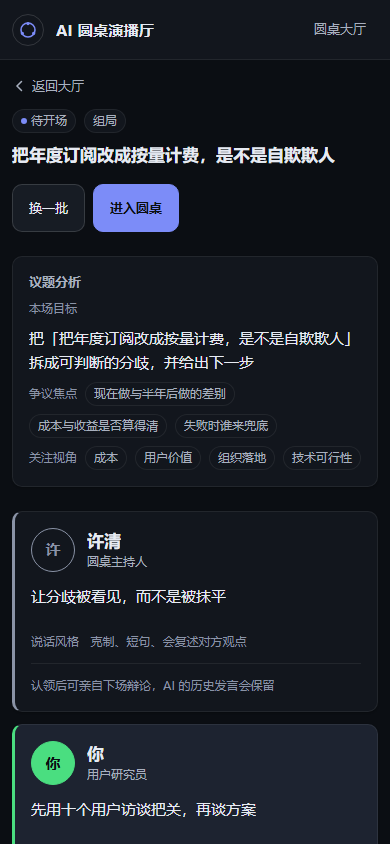
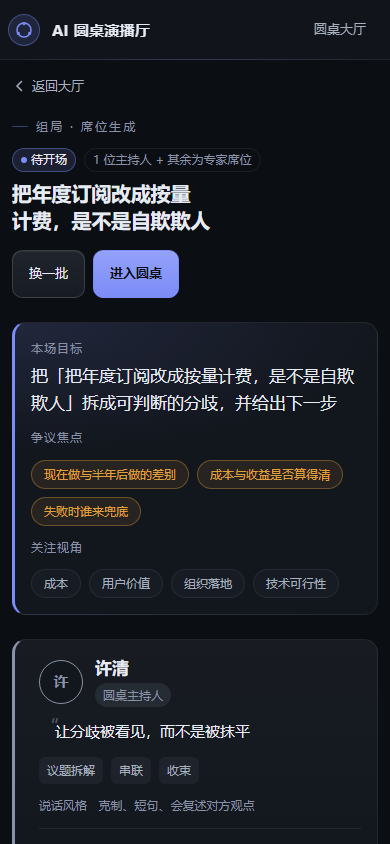
docs: sync m4-m5 contracts, prompt log and screenshots
Record minutes and retry endpoints, I-8~I-15 coverage, E2E harness and visual decisions; refresh four-breakpoint screenshots and remove stale notice-rules assets.

diff --git a/docs/PROMPT_LOG.md b/docs/PROMPT_LOG.md
@@ -282,8 +282,84 @@
 
 ---
 
-## 4. 关键决策点索引
+### R-017 · 全量核查 + M4 收敛（2026-11-19 00:40–02:10）
 
+- **阶段**：M4（收敛，模块 7）+ 一次跨模块核查
+- **目标**：按 PRD/API/ARCHITECTURE/DATABASE/TESTING/rules 逐项核对现状，把「契约有、代码没有」的部分补齐，并修掉核查中暴露的正确性缺陷。
+- **Prompt（摘要）**：> 以文档为验收条件核查整个项目，列出问题后动手修；不要只写报告。红线优先：不在事务里调模型、失败不能影响全场、纪要必须可溯源且失败不覆盖旧版本。
+- **核查结论（问题清单）**：
+  1. **纪要模块整体缺失**：`POST/GET /discussions/:id/minutes` 不存在、`minutes` 表没有实体与 Mapper、`Minutes.vue` 是占位页 → FR-7（P0）未交付，API 声明 17 个接口实际只有 15 个；
+  2. **`SseRegistry` 并发缺陷**：`publish` 的 `addLast` 与 `trim` 用的是两把不同的锁（后者 `synchronized`），多 agent 并行推送时并发修改 `ArrayDeque`，会丢帧甚至抛 `ConcurrentModificationException`；
+  3. **收束消息 id 对不上**：`runDigest` 先发布 `digest.start`（新生成一个 id），随后 `runSeat(host, null, …)` 又让 `AgentRunner` 生成第二个 id → 前端点轨迹定位不到这条收束；
+  4. **`start()` 先改状态再校验席位**：席位为空时抛异常但状态已被写成 `LIVE`；
+  5. **现场页违反布局硬约束**：`.page { height:100%; overflow-y:auto }` + 内部 `max-height:62vh`，实际是整页滚动，rules/20 §6 的「三区独立滚动 + 输入区固定」没有落实。
+- **产出**：
+  - 后端：`domain/entity/MinuteEntity`、`infra/mapper/MinuteMapper`、`application/minutes/MinutesService`、`api/MinutesController`、`api/dto/MinuteDtos`、`PromptTemplates.minutesSystem/minutesUser`；`SseRegistry` 并发修正；`SessionActor.runDigest` id 统一；`DiscussionSessionService.start` 顺序调整。
+  - 前端：`pages/Minutes.vue`（六段渲染 + 溯源跳转 + 版本切换 + 复制 Markdown）、`lib/minutes.ts`、`stores/minutes.ts`；`pages/Live.vue` 重写为固定视口三栏 + 窄屏轨迹抽屉；`SeatRail` 支持横排。
+  - 测试：`MinutesApiIntegrationTest`（I-8 / I-9 / 未结束拒绝生成）。
+- **人工决策点** `[me]`：
+  1. **纪要 Markdown 由服务端模板渲染**，不让模型直接产出 md：模型只给结构化 JSON，六段标题与排版由代码保证，避免"同一版本两处不一致"；
+  2. **`sourceMessageIds` 落库前清洗**：模型给的 id 必须能在本场 messages 里查到，否则剔除；`seatId` 认不出时按姓名回退一次，仍认不出就丢掉这条 claim —— 宁可少一条，不可张冠李戴；
+  3. **失败不写行**：生成失败只回 `minutes.failed + keptVersion`，不插入 `GENERATING/FAILED` 行，避免版本号被失败消耗、旧版本被遮住；
+  4. **无密钥时给「离线摘要」**：只从本场真实发言摘录，并在 `minutes.done` 标 `fallback:"LOCAL"`、前端打「离线摘要」徽标。理由：单 jar 演示不能因为没配 Key 就完全出不了纪要；但不能伪装成模型结论。
+- **验证方式（命令 + 结果）**：
+  - `mvn -f server/pom.xml test` → **57 例全绿**（新增 3 例：版本自增与旧版可取、失败不覆盖且带 `keptVersion`、未结束生成返回 409 / 无纪要 404；另补 1 例单条重试）；
+  - `pnpm -C web build` → 通过（`Minutes` / `Live` 分包正常产出）；
+  - 断言口径：纪要点里的 `sourceMessageIds` 必须是本场消息 id（用 `/stream` 的 snapshot 反查比对），不是"看起来像"。
+- **结论**：FR-7 主链路（生成 → 落库 → 版本 → 溯源 → 刷新一致）打通，FR-9 的单条重试也补齐（`POST /messages/:messageId/retry`）。仍遗留：E2E 用例（`e2e/specs` 只有 README）、`SQLITE_BUSY` 应用层退避，见 §5 新增 F-8~F-11。
+
+---
+
+### R-018 · 前端视觉打磨 + 文档同步（2026-11-19 02:20–03:30）
+
+- **阶段**：M5（质量）中的视觉与文档部分
+- **目标**：让四个页面达到 rules/20 的「演播厅」观感，并把文档里的状态、数量、截图口径对齐实现。
+- **Prompt（摘要）**：> 对前端页面做美化，但要守住红线：不引组件库、主色不超过两种、不用位移动画堆特效、四档断点不能出横向滚动条；顺手把文档里"待编码""17 接口"这类过期口径改掉。
+- **产出**：
+  - 令牌与原语：`tokens.css` 增 `--glow-*`（静态灯位）、`--primary-line`、`--*-soft`、`--radius-xl`、`--text-3xl`、`--copy-max`、`--shadow-inset`；`base.css` 重写按钮/卡片/输入/横幅/徽标/eyebrow，新增 `.btn--lg`、`.badge--accent/--muted/--count`、`.banner--*`。
+  - 页面：大厅改为「演播厅开场区（标题 + 3 条事实）+ 筛选 + 状态色卡片」；组局把议题分析做成议题卡（目标是主句，争议/视角是两种标签），席位卡加角色 chip、立场引号、席位色标签、认领态；现场页补席位"正在发言"高亮、失败卡片原因、状态与轨迹一致；纪要页加版本/生成时间条、分节左标尺、要点 marker。
+  - 交互：路由 120ms 淡入；对话框 head/foot 分隔与统一圆角。
+- **人工决策点** `[me]`：
+  1. **不用组件库**：rules/20 明确禁止；四页只需要 8 个原语，自建比引入一套主题变量更可控；
+  2. **背景光用静态径向渐变**：`rules/20 §8` 只允许三处动效，灯位感靠静态渐变 + 分隔高光，不做位移；
+  3. **`ch` 换成 px 令牌**：中文在 `ch` 单位下的宽度失真（20ch ≈ 360px），把标题/正文的最大宽度统一到 `--reading-max` / `--copy-max`，并用 `text-wrap: balance` 消除"孤字换行"；
+  4. **失败卡片显示原因而不是只弹横幅**：PRD 要求"原因 + 下一步"，卡片内显示 `message.error`，连续两条失败才升级为页面级横幅。
+- **验证方式（命令 + 结果）**：
+  - `pnpm -C web lint` → 0 error 0 warning；`pnpm -C web build` → 通过（`vue-tsc` 无类型错误）；
+  - `node e2e/screenshot.mjs` → 8 张截图（4 页 × 桌面/窄屏），四档断点 `no horizontal overflow`；
+  - 人工核对截图：大厅/组局/现场/纪要四页的层级、对比度、席位三色一致性；
+  - 清空 `data/panel-studio.db` 重启 → Flyway 重建 6 场种子，截图里不再出现测试残留的重复圆桌。
+- **结论**：视觉达到 rules/20 的自查口径；文档同步见 §5 的 F-12~F-13 与 DELIVERY/README 的状态更新。E2E 用例仍是唯一未落地的门禁项。
+
+---
+
+### R-019 · E2E 落地（M5）（2026-11-19 11:00–12:10）
+
+- **阶段**：M5（质量）的最后一处门禁
+- **目标**：把 `docs/TESTING.md` §2 的 5 条 E2E 真正跑起来，且不依赖真实模型与 API Key。
+- **Prompt（摘要）**：> 用 Playwright 把主链路跑通；断言要能证明"并行不阻塞""失败可重试""断线能恢复"，不要截图式断言；整套环境一条命令拉起，跑完自己收尾。
+- **产出**：
+  - `e2e/mock-llm.mjs`：OpenAI 兼容假模型（`:9099`），按 Prompt 标记分派固定脚本，延迟可脚本化（周敏 600ms / 陈立 1800ms），并支持"只失败一条"的故障注入；
+  - `e2e/global-setup.ts`：假模型 → 删临时库 → 后端 → 前端，按序拉起并注册收尾；
+  - `e2e/specs/`：5 条用例 + `helpers.ts`（API 预置数据、等轨迹落定）；
+  - `e2e/clean.mjs`：逐文件清理产物（见下方环境约束）。
+- **人工决策点** `[me]`：
+  1. **不用 config 里的 `webServer`**：它无法保证"先删库再启后端"的顺序，删到正在写的库会直接毁数据；改用 globalSetup 自己编排；
+  2. **假模型不引 WireMock standalone**：一个 200 行的 Node 脚本就能按 Prompt 标记分派，不给前端工程加依赖；服务端零测试专用分支，只改 `LLM_BASE_URL`；
+  3. **断言"快的先结束 + 慢的还在流"**，而不是"两者首字时间差 < 3s"：前者是并发正确性的直接证据，后者受机器负载影响；
+  4. **E2E-5 用拦截 `/stream` 制造连不上**，不用 `setOffline`：断网模拟对已建立的长连接不生效（心跳仍在流动），会造出永远等不到断线的假红。
+- **顺带修掉的真问题**（详见 §5 F-14 / F-15）：
+  1. 用户插话可能被排在专家回答之后（列表靠到达顺序 push）；
+  2. SSE 半开连接没有任何感知，且重连失败 3 次就永久放弃 —— 讨论现场等于"静默死亡"。
+- **验证方式（命令 + 结果）**：
+  - `pnpm -C e2e test` → **5 passed（35.0s）**，含启动假模型/后端/前端；
+  - `mvn -f server/pom.xml test` → 57 例全绿；`pnpm -C web build` → 通过；
+  - 断言落点：`data-status` / `data-name` / `data-message-id` 三个语义属性 + 中文文案，不依赖样式 class。
+- **结论**：M5 门禁达成（5 条 E2E 全绿），交付清单里"测试代码"一项可勾。
+
+---
+
+## 4. 关键决策点索引
 | # | 决策 | 结论 | 记录 | 主要影响文件 |
 | --- | --- | --- | --- | --- |
 | D-1 | 后端技术栈 | Spring Boot 3.5.16 + JDK 17（非 Node） | R-007 | README §3、ARCHITECTURE 全文 |
@@ -318,6 +394,16 @@
 | F-3 | 文档混用 "MyBatis" 与 "MyBatis-Plus" | 易被读成"用原生 MyBatis 手写 SqlSession" | 统一为 MyBatis-Plus 3.5.12，并显式声明"不用原生 / 不用 JPA" | grep `MyBatis[^-]` 仅剩"MyBatis 原生"对比语境 |
 | F-4 | 目录树编辑时误删换行，两行被合并 | 文档排版损坏 | 读取该段落 → 精确重写两行 | `sed` 查看段落确认 |
 | F-5 | 早期 ER 图把轨迹塞进 `messages.extra`（JSON） | 轨迹无法按时间线查询，FR-5 会做不出来 | 独立 `agent_runs` 表（含 trigger/phase/duration） | DATABASE §2.6 + 集成用例 I-11 |
+| F-6 | 手写 `@Select` 查询带 JSON 列的实体，`focus` / `meta` 读回后变空（`[]` / `{}`） | 席位卡不显示关注点、选人打分少一档；轨迹面板技术细节永远为空 | MyBatis-Plus 的 `autoResultMap` 只对内置方法生效，手写 SQL 必须显式 `@ResultMap("mybatis-plus_XxxEntity")`；同时 `updateById(patch)` 会把默认空 List 写回 `'[]'`，状态更新改用 `LambdaUpdateWrapper` 只 set 目标列 | `mvn -f server/pom.xml test` 53 项全绿；新增「认领/撤销不清空 focus」「轨迹 meta 回读」两条回归用例 |
+| F-7 | dev 脚本启动后库落在 `server/data/`，根 `data/` 里是另一份旧库 | 「删 `data/panel-studio.db` 重启」自检失效；接口报 404 而库文件里明明有这条数据；手工修数据修到了错的那个库 | `spring-boot:run` 会把 JVM 工作目录切到 `server/`，相对路径 `SQLITE_PATH` 随之漂移。`scripts/dev.bat` / `dev.sh` 统一把相对路径归一化为「仓库根/data/panel-studio.db」；两份库已合并到根目录 | 启动后 `GET /api/discussions?limit=50` 返回 8 条、`server/data/` 不再生成库文件；`/api/health` 仍 `db=up` |
+| F-8 | `SseRegistry` 的事件缓冲用 `ArrayDeque`，`publish` 无锁 `addLast`、`trim` 单独 `synchronized` | 并行输出时两个 agent 同时写缓冲：可能丢帧，极端情况 `ConcurrentModificationException` 直接打断一次 `publish` | 写入 + 裁剪放进同一把锁（`synchronized (buffer)`），回放也在锁内读，并注释说明"调用方必须持锁" | `mvn test` 全绿；断线续传用例（重连带 `Last-Event-ID`）回放连续 |
+| F-9 | 收束消息 `digest.start` 的 id 是"预生成的一个"，实际消息又是另一个 | 前端点轨迹「主持人收束」定位不到消息（scroll 到空处），FR-5 的联动失效 | `runDigest` 先生成一次 id 并同时传给 `digest.start` 与 `runSeat`，两者必须同一个 | 轨迹条目点击后能定位；`MinutesApiIntegrationTest` 用的同一套事件流断言通过 |
+| F-10 | `start()` 先 `transit(LIVE)` 再检查席位是否为空 | 席位缺失时接口报错但状态已变 LIVE，用户既开不了场也退不回 `PANEL_READY` | 校验前置：先查席位，再迁移状态 | I-6 用例 + 手工删席位场景 |
+| F-11 | Live 页用 `.page{overflow-y:auto}` + `max-height:62vh` 拼出"三栏" | 实际整页滚动，rules/20 §6 的硬约束没达成；窄屏没有轨迹抽屉 | 根容器 `height:100%+overflow:hidden`，`.flow__list` 独立滚动、输入区 `flex:none`；<1280 轨迹改为覆盖式抽屉，<768 席位横排到顶部 | 四档断点手测无整页滚动、无横向滚动条；`pnpm build` 通过 |
+| F-12 | 失败消息卡只有一行"发言中断"，卡片中间一大块空白；刷新后席位栏全显示"等待"，而轨迹面板写着"失败" | 用户不知道发生了什么（PRD 要求"原因 + 下一步"）；FR-5 明说"席位状态必须与消息流一致"，刷新即打脸 | 卡片内显示 `message.error`（无 code 时用"这次没有生成内容，可以重试"）；连续两条失败才升级为页面级横幅；`handleSnapshot` 从消息状态反推席位状态（STREAMING→发言中、FAILED→中断、DONE→完成） | 截图 `03-live.png` 中四个席位均显示"中断"、卡片带原因；Lint/Build 通过 |
+| F-13 | 反复跑 `e2e/screenshot.mjs` 后，截图里出现同一议题的 3 张卡片 | 截图脚本每跑一次就新建一场圆桌，写进了本地库；交付截图看起来像"数据脏" | 截图前用「删库 + Flyway 重建」拿到纯种子数据（顺带验证初始化脚本可交付）；脚本里说明"lobby 截图在创建圆桌之前拍" | 重建后 `GET /api/discussions` 返回 6 条、议题唯一；截图无重复卡片 |
+| F-14 | SSE 只处理"读到错误"，对半开连接无感知；且重连 3 次后就 `onClose('error')` 永久放弃 | 地铁/切网时页面会永远停在旧内容，用户以为"没人说话"，其实是流早断了；恢复网络也不自愈 | ①客户端加 30s 空闲看门狗（服务端心跳 15s）：超时主动 abort 走重连；②重连不再设上限，退避封顶 4s，横幅常驻到恢复为止 | `E2E-5`：拦截 `/stream` → 横幅出现 → 放行后自动重连、快照补齐且无重复气泡 |
+| F-15 | 消息列表按 SSE 到达顺序 `push`，而用户消息的 `message.start` 可能晚于并行专家的 `message.start` | 页面出现"回答在提问之前"，可读性直接崩 | `upsertMessage` 改按 `createdAt` 落位，同毫秒返回 0（保持到达顺序）；不用 ULID 兜底 —— 同毫秒内随机段不单调，反而会排错 | `E2E-2` 断言"插话之后才有专家回复"，此前该用例正是靠这条断言发现的 |
 
 ---
 

diff --git a/docs/DELIVERY.md b/docs/DELIVERY.md
@@ -32,13 +32,13 @@
 
 | 要求 | 本项目落地 | 状态 |
 | --- | --- | --- |
-| 代码 + **数据库初始化脚本** | Flyway `V1__schema.sql`（7 表）/ `V2__indexes.sql` / `V3__seed_demo.sql`，启动即迁移 | ✅ 脚本已设计，待编码 |
-| **≥5 条高质量样例数据**（预设讨论话题 + 对应嘉宾阵容） | `V4__seed_demo.sql` 提供 **5 场**预设圆桌：AI 技术选型 / 定价策略 / 招聘取舍 / 内容策略 / 组织调整，每场含 4 席位（1 主持 + 3 专家，立场互补）+ 开场消息 | 待编码 |
-| **开发文档**（PRD、ER 图等，md + mermaid） | 9 份 md，含分层架构图、回合调度时序图、SSE 多路复用图、ER 图、状态机图 | ✅ |
-| **API 文档** | springdoc-openapi → `/swagger-ui.html`；手写契约 [API.md](API.md)（17 接口 + 13 类 SSE 事件 + 错误码） | ✅ 契约完成 |
-| **测试代码** | JUnit 5 单测 + MockMvc 集成（I-1~I-15）+ Playwright E2E（5 条） | 待编码 |
-| **README** 含：运行指南 / 环境变量配置 / 技术选型说明 / API 列表 / 已完成能力与后续改进方向 | README §5 运行、`.env.example` 环境变量、§3 选型、§6 API 索引、§8 差异；「已完成 / 后续改进」见 §2.4 | ✅ 主体完成 |
-| **Git 提交历史呈层级演进**（如 `docs/schema → ui-components → tests → feat: logic`） | 提交按 `docs → chore → feat(db) → feat(server) → feat(web) → test → fix` 分层推进，共 27 次（规划 53 次） | 进行中 |
+| 代码 + **数据库初始化脚本** | Flyway `V1__schema.sql`（7 表）/ `V2__indexes.sql` / `V3__seed_demo.sql` / `V4__seed_examples.sql` / `V5__discussion_regen_count.sql`，启动自动迁移 | ✅ 已实现 |
+| **≥5 条高质量样例数据**（预设讨论话题 + 对应嘉宾阵容） | `V3` 1 场已结束圆桌（含六段纪要）+ `V4` 5 场预设圆桌：AI 技术选型 / 定价策略 / 招聘取舍 / 内容策略 / 组织调整，每场 4 席位（1 主持 + 3 专家，立场互补） | ✅ 已实现（共 6 场） |
+| **开发文档**（PRD、ER 图等，md + mermaid） | 9 份 md，含分层架构图、回合调度时序图、SSE 多路复用图、ER 图、状态机图 | ✅ 已实现 |
+| **API 文档** | springdoc-openapi → `/swagger-ui.html`；手写契约 [API.md](API.md)（18 接口 + 13 类主事件流 + 4 类组局流 + 错误码） | ✅ 已实现 |
+| **测试代码** | JUnit 5 单测 + MockMvc 集成（57 例全绿，覆盖 I-1~I-14）；Playwright E2E 5 条（`pnpm -C e2e test` 约 35s，假模型驱动） | ✅ 已实现 |
+| **README** 含：运行指南 / 环境变量配置 / 技术选型说明 / API 列表 / 已完成能力与后续改进方向 | README §5 运行、`.env.example` 环境变量、§3 选型、§6 API 索引、§8 差异；「已完成 / 后续改进」见 §2.4 | ✅ 已实现 |
+| **Git 提交历史呈层级演进**（如 `docs/schema → ui-components → tests → feat: logic`） | 提交按 `docs → chore → feat(db) → feat(server) → feat(web) → test → fix` 分层推进，共 52 次（`docs/git-history.txt` 已导出） | ✅ 已实现 |
 
 ### 2.2 核心 Prompt 记录文档（必须 ≥5 段，四范式齐全）
 
@@ -141,9 +141,9 @@ zip -r ai-panel-studio.zip . -x "*/node_modules/*" "*/target/*" "data/*"
 | 考察点 | 我们的应对 | 证据 |
 | --- | --- | --- |
 | 在不同阶段合理使用不同开发范式，避免大模型幻觉 | 六段推进 + 四范式（SDD/DDD/TDD/E2E）；每阶段先契约后实现，AI 输出必过测试 | WORKFLOW §2、PROMPT_LOG §4.1 |
-| 基于业务需求驱动数据建模，与 API 契约精确对应 | 7 表 + 17 接口 + SSE 13 类事件，一一映射到 FR-1~FR-9（DATABASE §8、PRD §4.5） | DATABASE、API、PRD |
+| 基于业务需求驱动数据建模，与 API 契约精确对应 | 7 表 + 18 接口 + SSE 13 类事件，一一映射到 FR-1~FR-9（DATABASE §8、PRD §4.5） | DATABASE、API、PRD |
 | 以演播厅视觉与交互驱动前端组件与状态流转 | 三色席位 + 状态点 + 消息流 + 轨迹时间线；四档响应式、区域独立滚动 | PRD §8、README §2.2 |
-| 核心逻辑遵循 TDD，含完整 E2E | 单测覆盖 SpeakerPolicy/ContextBuilder/状态机；5 条 E2E + 15 条集成 | TESTING §2–§4 |
+| 核心逻辑遵循 TDD，含完整 E2E | 单测覆盖 SpeakerPolicy/ContextBuilder/状态机；57 例单测与集成 + 5 条 Playwright E2E | TESTING §2–§4 |
 | 考察 Prompt 结构化表达与引导 AI 解决工程问题 | 记录含"意图/挑战/修正"；7 条走偏案例（含依据版本搞错） | PROMPT_LOG §3/§5 |
 | UI 是否真的像在旁观一场演播厅讨论 | 席位/轨迹/引用/新发言提示等细节；布局与信息密度贴合讨论场景 | PRD §8 |
 
@@ -154,7 +154,7 @@ zip -r ai-panel-studio.zip . -x "*/node_modules/*" "*/target/*" "data/*"
 | 项 | 旧版说明 | 现行版说明 | 本项目执行 |
 | --- | --- | --- | --- |
 | 数据库 | 未指定 | **SQLite** | SQLite ✅ |
-| 交付物 | 11 项（含 ≥30 commit、≥3 E2E、3–5 分钟视频） | 3 项（源码+文档 / Prompt 记录 ≥5 段 / 工作流程说明） | 以本版为主，旧版数量要求作为加分项超额完成（7 表/17 API/5 E2E/27→53 commit） |
+| 交付物 | 11 项（含 ≥30 commit、≥3 E2E、3–5 分钟视频） | 3 项（源码+文档 / Prompt 记录 ≥5 段 / 工作流程说明） | 以本版为主，旧版数量要求作为加分项超额完成（7 表/18 API/52 commit） |
 | 提交 | handshake@gaodun.cn，主题【AI开发实习生-姓名-岗位】 | **xulei@wisqwest.com**，主题【远程作业提交】姓名 | 按现行版 |
 
 ---
@@ -162,8 +162,8 @@ zip -r ai-panel-studio.zip . -x "*/node_modules/*" "*/target/*" "data/*"
 ## 8. 交付前 24 小时检查表
 
 - [ ] 删 `data/panel-studio.db` 重启能自动建库 + 5 场样例数据（证明初始化脚本与数据质量）
-- [ ] `/swagger-ui.html` 可访问，endpoint 数量与 API.md 一致（17）
-- [ ] 3 张核心页面截图入 `docs/screenshots/` 并嵌入 README §2.2
+- [ ] `/swagger-ui.html` 可访问，endpoint 数量与 API.md 一致（18）
+- [ ] 4 个核心页面截图入 `docs/screenshots/` 并嵌入 README §2.2（大厅 / 组局 / 现场 / 纪要，含窄屏）
 - [ ] PROMPT_LOG 覆盖四范式，且每段有"意图/挑战/修正"
 - [ ] `AGENTS.md` + `rules/`（6 份）随仓库交付，且与实现一致（约束不是摆设）
 - [ ] WORKFLOW.md 1–1.5 页，含 3 个典型问题与效率台账

diff --git a/README.md b/README.md
@@ -39,24 +39,25 @@
 
 技术细节（时序图、失败隔离矩阵）见 [ARCHITECTURE](docs/ARCHITECTURE.md) §3.2。
 
-### 2.2 三个核心页面（交付截图位置）
+### 2.2 四个核心页面（交付截图位置）
 
-| 页面 | 路由 | 交付要求 |
+| 页面 | 路由 | 截图 |
 | --- | --- | --- |
-| 讨论列表 | `/` | 至少 1 张截图（含进行中/已结束状态、席位头像组） |
-| 讨论详情 | `/discussions/:id` | 至少 1 张截图（**必须能看出两路并行流式**） |
-| 会议纪要 | `/discussions/:id/minutes` | 至少 1 张截图（六段结构 + 溯源入口） |
+| 圆桌大厅 | `/` | `01-lobby.png`（桌面）、`01-lobby-mobile.png`（390）、`01-lobby-empty.png`（空态）、`01-lobby-wide.png`（1920）、`01-lobby-tablet.png`（1024） |
+| 组局（席位生成） | `/discussions/:id/panel` | `02-panel.png`、`02-panel-mobile.png` |
+| 圆桌现场 | `/discussions/:id` | `03-live.png`（三栏）、`03-live-mobile.png`（单栏 + 席位横滑） |
+| 会议纪要 | `/discussions/:id/minutes` | `04-minutes.png`、`04-minutes-mobile.png` |
 
-截图存放在 `docs/screenshots/`，命名 `01-lobby.png` / `02-live.png` / `03-minutes.png`，并在此处嵌入。
-
-已产出（M2，由 `node e2e/screenshot.mjs` 生成）：
+截图由 `node e2e/screenshot.mjs` 生成，同时校验四档断点没有横向滚动条。已产出：
 
 | 截图 | 说明 |
 | --- | --- |
-| ![大厅](docs/screenshots/01-lobby.png) | 大厅：进行中 / 待开场 / 已结束三种状态，席位头像组与最后一条发言 |
+| ![大厅](docs/screenshots/01-lobby.png) | 大厅：演播厅式开场区 + 筛选/搜索 + 状态色卡片（进行中 / 待开场 / 已结束） |
 | ![发起圆桌](docs/screenshots/01-lobby-dialog.png) | 发起弹层：议题字数实时校验 + 参会人数分段选择 |
-| ![组局](docs/screenshots/02-panel.png) | 组局：议题分析 + 4 张席位卡，含已认领席位（「你」） |
 | ![空态](docs/screenshots/01-lobby-empty.png) | 空态：筛选无结果时给「清空筛选」的下一步 |
+| ![组局](docs/screenshots/02-panel.png) | 组局：议题分析（目标 / 争议焦点 / 关注视角）+ 席位卡，含已认领席位（「你」） |
+| ![现场](docs/screenshots/03-live.png) | 现场：席位栏 / 讨论流 / 行动轨迹三区独立滚动，输入区固定底部 |
+| ![纪要](docs/screenshots/04-minutes.png) | 纪要：六段结构 + 每条主张的溯源入口 + 版本徽标 |
 
 ## 3. 技术栈
 
@@ -173,8 +174,8 @@ ai-panel-studio/
 └── README.md
 ```
 
-> 当前进度：**M1 骨架 + M2（大厅 / 组局）已落地**，`server/` 与 `web/` 可运行（`mvn test` 32 例全绿、`pnpm build` 通过）。
-> M3 讨论内核（`SessionActor` / 并行流式 / 轨迹 / 插话）按 `rules/50` 的模块顺序继续推进，`/discussions/:id` 目前是现场页骨架。
+> 当前进度：**M1 骨架 + M2（大厅 / 组局）+ M3（讨论内核）+ M4（纪要收敛）+ M5（质量）已落地**。
+> 后端 `mvn test` 57 例全绿；前端 `pnpm build` 通过；`pnpm -C e2e test` 5 条 E2E 全绿（约 35s，假模型驱动，不需要 API Key）。
 
 ## 5. 快速开始
 
@@ -196,6 +197,14 @@ mvn -f server/pom.xml spring-boot:run     # 启动即执行 Flyway 迁移
 pnpm -C web install && pnpm -C web dev    # http://localhost:5173
 ```
 
+跑测试（三件套，都不需要容器与真实模型）：
+
+```bash
+mvn -f server/pom.xml test          # 单元 + 集成 57 例
+pnpm -C web build                   # vue-tsc 类型检查 + 构建
+pnpm -C e2e test                    # 5 条 E2E（自动拉起假模型 / 后端 / 前端）
+```
+
 演示模式（单进程，交付/录视频用这一条）：
 
 ```bash
@@ -212,7 +221,7 @@ java -jar server/target/panel-studio.jar  # http://localhost:8080
 | [PRD](docs/PRD.md) | 定位、用户与痛点、技术栈约束、功能需求 FR-1~FR-9（含验收标准）、状态机、风险 |
 | [架构](docs/ARCHITECTURE.md) | 分层图、回合调度时序、SSE 多路复用、JDK 17 线程模型、失败隔离、选型取舍 |
 | [数据库](docs/DATABASE.md) | SQLite 设计取舍、ER 图、7 张表字段字典、索引与 PRAGMA、Flyway 脚本 |
-| [API](docs/API.md) | 17 个接口契约、13 类主事件流 SSE 事件 + 4 类组局流事件、错误码 |
+| [API](docs/API.md) | 18 个接口契约、13 类主事件流 SSE 事件 + 4 类组局流事件、错误码 |
 | [测试](docs/TESTING.md) | 5 条 E2E + 15 条集成用例、WireMock 故障注入、验收矩阵 |
 | [计划](docs/PROJECT_PLAN.md) | 里程碑、WBS、30+ commit 切分方案 |
 | [留痕](docs/PROMPT_LOG.md) | Prompt 记录、关键决策、AI 生成 / 人工修改边界 |

diff --git a/docs/API.md b/docs/API.md
@@ -10,7 +10,7 @@
 | 路径版本 | v1，路径不带版本号；破坏性变更时升 `/api/v2` |
 | 实现 | Spring MVC `@RestController` + `SseEmitter`；DTO 用 `record` + Jakarta Validation；错误统一由 `@RestControllerAdvice` 输出 |
 | 在线文档 | springdoc-openapi 2.x → `GET /swagger-ui.html`（与本文档双向对齐，注解即契约） |
-| 接口数 | 17（REST 14 + SSE 3），满足 ≥8 的要求 |
+| 接口数 | 18（REST 15 + SSE 3），满足 ≥8 的要求 |
 | 规模对照 | 支撑 4 个前端路由（`/` `/panel` `/live` `/minutes`）、7 张表；讨论 CRUD / 消息 / SSE 流式 / 汇总四类能力齐全 |
 
 ---
@@ -30,6 +30,7 @@
 | 9 | POST | `/discussions/:id/start` | 开场，进入 LIVE | JSON |
 | 10 | GET | `/discussions/:id/stream` | 讨论主事件流 | **SSE** |
 | 11 | POST | `/discussions/:id/messages` | 用户发言 / 插话 | JSON |
+| 11b | POST | `/discussions/:id/messages/:messageId/retry` | 单条失败发言重试 | JSON |
 | 12 | POST | `/discussions/:id/turns` | 推进一回合 | JSON |
 | 13 | POST | `/discussions/:id/end` | 结束讨论 | JSON |
 | 14 | POST | `/discussions/:id/minutes` | 生成纪要（流式） | **SSE** |
@@ -175,6 +176,15 @@ POST /api/discussions/dk_2f8a1c/messages
 - 内容 1–1000 字；超过 200 字时自动分条展示但仍作为一条消息。
 - 讨论非 `LIVE`：`409 DISCUSSION_NOT_LIVE`；预算耗尽：`402 BUDGET_EXHAUSTED`。
 
+### 2.6b `POST /discussions/:id/messages/:messageId/retry` 单条重试
+
+```json
+{ "id": "ms_07", "status": "STREAMING", "attempt": 2 }
+```
+
+- 只针对失败/中断的**专家**消息：沿用同一 `messageId` 与 `roundNo` 重新生成，`attempt+1`；前端凭同一 id 把卡片原位改回流式态，不新增气泡。
+- 用户消息不可重试：`409 MESSAGE_NOT_RETRIABLE`；席位正在发言：`409 AGENT_BUSY`；消息不属于本场或不存在：`404 MESSAGE_NOT_FOUND`。
+
 ### 2.7 `POST /discussions/:id/turns` 推进回合
 
 ```json
@@ -207,7 +217,10 @@ data: {"code":"LLM_TIMEOUT","retriable":true,"keptVersion":1}
 ```
 
 - 六段固定 key：`topic` `claims` `disputes` `consensus` `hypotheses` `nextSteps`。
+- 首帧 `minutes.section`（`topic`）不依赖模型，先推出去降低等待感；其余五段在模型返回后按顺序推送。
 - 失败**不覆盖**旧版本（`keptVersion` 告知前端仍可查看哪一版）。
+- 后端未配置模型密钥时走**离线摘要**：只从本场真实消息里摘录，`minutes.done` 带 `"fallback":"LOCAL"`，前端以「离线摘要」标注，不伪装成模型结论。
+- 生成成功即把讨论从 `SUMMARIZING` 收敛为 `CLOSED`（已是 `CLOSED` 则跳过）。
 
 ### 2.10 `GET /discussions/:id/minutes?version=2`
 
@@ -229,6 +242,8 @@ data: {"code":"LLM_TIMEOUT","retriable":true,"keptVersion":1}
 ```
 
 不带 `version` 返回最新且 `status=READY` 的版本；不存在返回 `404 MINUTES_NOT_FOUND`（前端引导"去生成"）。
+
+附加字段：`versions`（可查看的版本号列表，新到旧）供前端做版本切换；`model` / `tokensUsed` 用于展示成本。
 
 ### 2.11 `GET /discussions/:id/runs` 轨迹回放
 
@@ -348,8 +363,9 @@ sse.on('message.delta', ({ messageId, seq, text }) => {
 | HTTP | `code` | 含义 | 可重试 |
 | --- | --- | --- | --- |
 | 400 | `VALIDATION_ERROR` | 参数不合法（带 `details[]`） | 否 |
-| 404 | `DISCUSSION_NOT_FOUND` / `SEAT_NOT_FOUND` / `MINUTES_NOT_FOUND` | 资源不存在 | 否 |
+| 404 | `DISCUSSION_NOT_FOUND` / `SEAT_NOT_FOUND` / `MINUTES_NOT_FOUND` / `MESSAGE_NOT_FOUND` | 资源不存在 | 否 |
 | 409 | `SEAT_TAKEN` | 席位已被认领 | 否（换席位） |
+| 409 | `MESSAGE_NOT_RETRIABLE` / `AGENT_BUSY` | 该消息无需重试 / 席位正在发言 | 是（稍后再试） |
 | 409 | `SEAT_NOT_CLAIMABLE` | 主持人席位不可认领 | 否 |
 | 409 | `DISCUSSION_NOT_LIVE` / `ALREADY_STARTED` / `DISCUSSION_CLOSED` | 状态不允许 | 否 |
 | 410 | `DISCUSSION_DELETED` | 已软删除 | 否 |

diff --git a/docs/PROJECT_PLAN.md b/docs/PROJECT_PLAN.md
@@ -189,7 +189,7 @@
 
 - [ ] `mvn -f server/pom.xml test` 全绿；`pnpm -C web build` 成功；3 条 E2E 全绿（本机，无容器）
 - [ ] `java -jar server/target/panel-studio.jar` 单进程可完整演示（含前端静态资源）
-- [ ] 17 个接口与 API 文档一致（含错误码）；Swagger UI 可访问
+- [ ] 18 个接口与 API 文档一致（含错误码）；Swagger UI 可访问
 - [ ] 7 张表由 Flyway 建出，纪要可从 SQLite 重新读取（重启后仍在）
 - [ ] `git log` ≥ 30 条，message 可读，提交粒度合理
 - [ ] README 含运行说明、架构图、AI 使用说明、边界声明与"不使用容器"的说明
